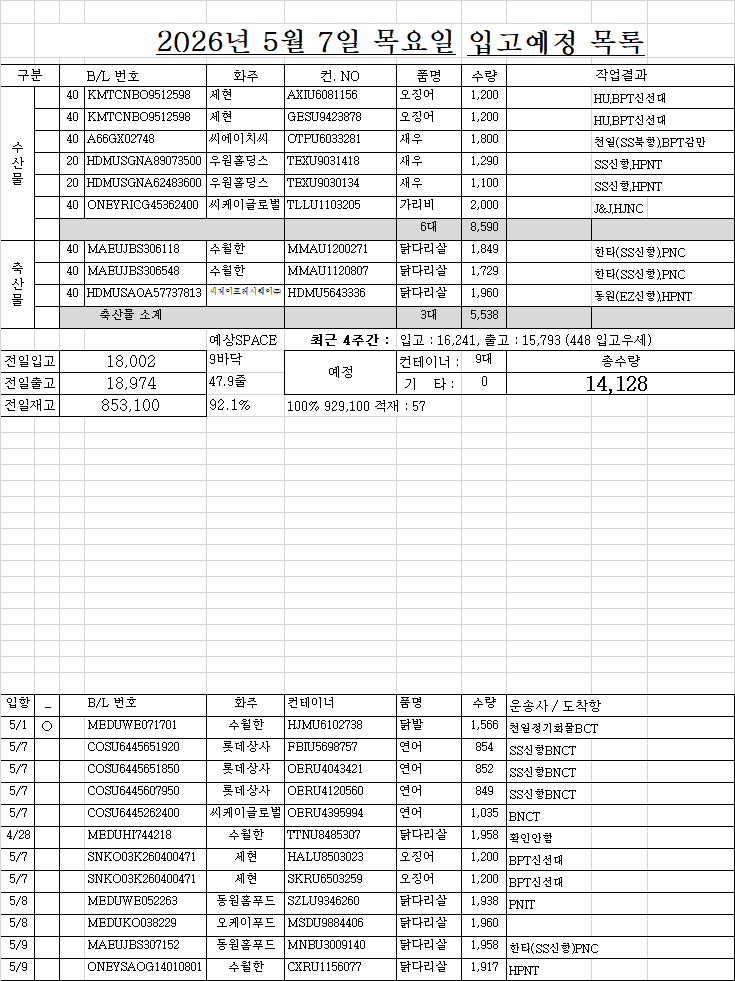
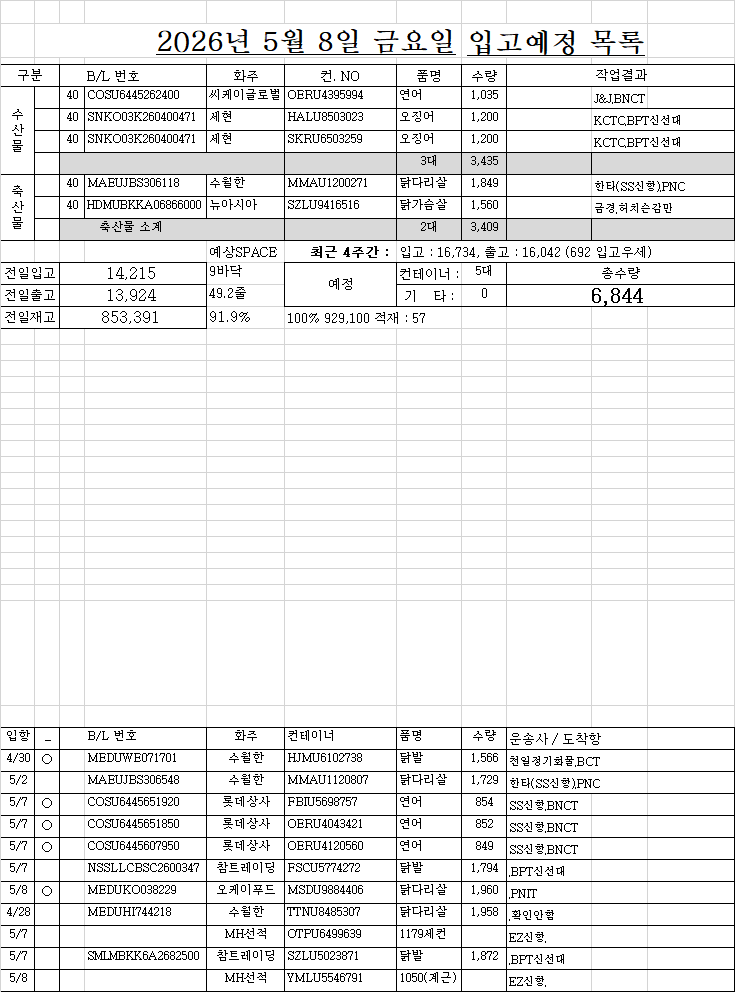
0507

Changed region(s): [[0.0, 0.0306, 1.0, 0.4281], [0.0, 0.7034, 1.0, 1.0], [0.0, 0.4893, 1.0, 0.581]]

diff --git a/list.html b/list.html
@@ -161,56 +161,70 @@
 <!-- ★★★★★★ 따로 빼 놔야한다. 복붙하면 첫칸 비어도 되는데, 여기서는 첫칸비우면 당겨진다. -->
 <!-- ★ 엑셀범위를 브라우저 textarea에 붙여넣으면 첫셀 비어도 제대로 되는데... HTML에 붙여놓은 자료는 처음셀이 비어있으면 당겨짐 -->
 <div class="d-none" id="원본text_리스트1부터w요약열까지">작성	면허	B/LNO.	화주	컨테이너NO.	품명	수량	반입NO.	입항일	구분	도착일	도착시간	구분	운도VBA	04/27 월 07:21	화찰BL	화찰 선명	화물관리번호	화찰수량	화찰중량	화찰입항	리스트시트기준열	
-1	○	KMTCNBO9512598	세현	AXIU6081156	오징어	1,200 		5/6	1				HU.BPT신선대	(주)에이치유로지스틱스, CY : 신선대감만터미널(주) 신선대CY, 컨진행 : 보세운송 신고 수리, 선사 : 천경해운(주), 포딩 : (주)보나미시스템	KMTCNBO9512598	SKY VICTORIA	26CKCO0460I-0049-0001	2,400 	49,060.00 	2026.05.04	05/06 수 16:33	
-1	○	KMTCNBO9512598	세현	GESU9423878	오징어	1,200 		5/6	1				HU.BPT신선대	(주)에이치유로지스틱스, CY : 신선대감만터미널(주) 신선대CY, 컨진행 : 보세운송 신고 수리, 선사 : 천경해운(주), 포딩 : (주)보나미시스템	KMTCNBO9512598	SKY VICTORIA	26CKCO0460I-0049-0001	2,400 	49,060.00 	2026.05.04	조회정보	
-1	○	A66GX02748	씨에이치씨	OTPU6033281	새우	1,800 		5/6	1				천일(SS북항).BPT감만	천일정기화물자동차(주), CY : 신선대감만터미널(주) 감만CY, 컨진행 : 반입완료, 선사 : 덕상티에스라인스(주), 포딩 : 주식회사 엔제이글로벌	A66GX02748	TS GUANGZHOU	26TSLUB057I-9044-0001	1,800 	21,000.00 	2026.05.05	적재	57
-1		HDMUSGNA89073500	우원홀딩스	TEXU9031418	새우	1,290 		5/6	1			20	SS신항.HPNT	면허?, CY : 에이치엠엠피에스에이신항만(주), 컨진행 : 반입완료, 선사 : 에이치엠엠(주)	HDMUSGNA89073500	HMM MIRACLE	26HDMUA227I-0171-	1,290 	6,049.90 	2026.04.30	4,617 	3줄
-1		HDMUSGNA62483600	우원홀딩스	TEXU9030134	새우	1,100 		5/6	1			20	SS신항.HPNT	면허?, CY : 에이치엠엠피에스에이신항만(주), 컨진행 : 반입완료, 선사 : 에이치엠엠(주)	HDMUSGNA62483600	HMM MIRACLE	26HDMUA227I-0170-	1,100 	8,360.00 	2026.04.30	6,156 	4줄
-1		ONEYRICG45362400	씨케이글로벌	TLLU1103205	가리비	2,000 		5/7	1				J&J.HJNC	면허?, CY : 한진부산컨테이너터미널(주), 컨진행 : 입항적재화물목록 운항정보 정정, 선사 : 오션네트워크익스프레스코리아(주)	ONEYRICG45362400	HYUNDAI PLUTO	26ONEY0607I-5006-	2,000 	22,000.00 	2026.05.06	7,695 	5줄
-1		MAEUJBS306118	수월한	MMAU1200271	닭다리살	1,849 		5/6	2				한타(SS신항).PNC	면허?, CY : 부산신항만(주)자유무역지역, 컨진행 : 반입완료, 선사 : 한국머스크(주)	MAEUJBS306118	GRASMERE MAERSK	26MAEU0265I-1194-	1,849 	23,214.81 	2026.05.01	9,234 	6줄
-1		MAEUJBS306548	수월한	MMAU1120807	닭다리살	1,729 		5/6	2				한타(SS신항).PNC	면허?, CY : 부산신항만(주)자유무역지역, 컨진행 : 반입완료, 선사 : 한국머스크(주)	MAEUJBS306548	GRASMERE MAERSK	26MAEU0265I-1196-	1,729 	21,708.58 	2026.05.01	구분	대수
-1	○	HDMUSAOA57737813	씨제이프레시웨이㈜	HDMU5643336	닭다리살	1,960 		5/6	2				동원(EZ신항).HPNT	동원로엑스㈜, CY : 에이치엠엠피에스에이신항만(주), 컨진행 : 보세운송 신고 수리, 선사 : 에이치엠엠(주)	HDMUSAOA57737813	HYUNDAI TOKYO	26HDMUA185I-0027-	1,960 	24,500.00 	2026.04.28	출고입고	4주간
-2	○	MEDUWE071701	수월한	HJMU6102738	닭발	1,566 		5/1	2				천일정기화물.BCT	천일정기화물자동차(주), CY : 부산컨테이너터미널(주), 컨진행 : 반입완료, 선사 : 엠에스씨코리아(주)	MEDUWE071701	MSC GREENWICH	26MSCU4168I-0732-	1,566 	24,278.76 	2026.05.01	1일 7/5	9바닥줄
-3		COSU6445651920	롯데상사	FBIU5698757	연어	854 		5/7	1				SS신항.BNCT	면허?, CY : (주)비엔씨티(CY), 컨진행 : 입항적재화물목록 제출, 선사 : 코스코쉬핑라인스 한국 주식회사	COSU6445651920	COSCO SHIPPING AZALEA	26COSU0045I-3119-	854 	24,750.00 	2026.05.07	16,109 	10.5
-3		COSU6445651850	롯데상사	OERU4043421	연어	852 		5/7	1				SS신항.BNCT								16,358 	10.6
-3		COSU6445607950	롯데상사	OERU4120560	연어	849 		5/7	1				SS신항.BNCT								내국제외	
-3		COSU6445262400	씨케이글로벌	OERU4395994	연어	1,035 		5/7	1				.BNCT	면허?, CY : (주)비엔씨티(CY), 컨진행 : 입항적재화물목록 제출, 선사 : 코스코쉬핑라인스 한국 주식회사	COSU6445262400	COSCO SHIPPING AZALEA	26COSU0045I-3028-	1,035 	21,278.00 	2026.05.07	구분	대수
-		MEDUHI744218	수월한	TTNU8485307	닭다리살	1,958 		4/28	2				.확인안함			SEASPAN BELIEF					수산	18 
-		SNKO03K260400471	세현	HALU8503023	오징어	1,200 		5/7	1				.BPT신선대								축산	34 
-		SNKO03K260400471	세현	SKRU6503259	오징어	1,200 		5/7	1				.BPT신선대								합계	52 
-		MEDUWE052263	동원홈푸드	SZLU9346260	닭다리살	1,938 		5/8	2				.PNIT			MSC ANTIGUA						
-		MEDUKO038229	오케이푸드	MSDU9884406	닭다리살	1,960 		5/8	2												화주	대수
-		MAEUJBS307152	동원홈푸드	MNBU3009140	닭다리살	1,958 		5/9	2				한타(SS신항).PNC			MAERSK CAP JERVIS					수월한	15
-		ONEYSAOG14010801	수월한	CXRU1156077	닭다리살	1,917 		5/9	2				.HPNT								㈜이마트	6
-		COSU6446081841	씨제이프레시웨이㈜	OTPU6169262	닭다리살	1,960 		5/10	2				.BNCT								세현	4
-		PROHCM26040066	우원홀딩스	EMCU5808093	새우	920 		5/10	1			20	(에버).BPT신선대								씨케이글로벌	4
-		A59GX13572	한국축지	SEKU9388204	갑오징어	800 		5/10	1			20	.BPT신선대								롯데상사	3
-		HASLS22260401549	동일냉장	FBIU5089302	닭고기	1,925 		5/11	2												열호통상	3
-		MEDUR3113012	수월한	FSCU5782597	닭다리살	1,941 		5/11	2				.PNIT			CAPE ARTEMISIO					우원홀딩스	3
-		MEDUR3128275	수월한	MEDU9346424	닭다리살	1,939 		5/11	2				.PNIT			CAPE ARTEMISIO					씨제이프레시웨이㈜	2
-		MEDUHI748649	열호통상	MEDU9044609	닭다리살	1,956 		5/11	2												동원홈푸드	2
-		MEDUHI744887	열호통상	SZLU9331527	닭다리살	1,958 		5/11	2												아스트로스	2
-		MEDUWE023579	열호통상	CXRU1462903	닭다리살	1,958 		5/11	2												동일냉장	1
-		MEDUR3104979	㈜이마트	FSCU5795064	SR조각정육(하프컷)			5/11	2				.PNIT			CAPE ARTEMISIO					씨에이치씨	1
-		MEDUR3101496	㈜이마트	FSCU5778220	닭다리살			5/11	2				.PNIT			MSC ORION					오케이푸드	1
-		MEDUKO028741	대성무역	MSCU7324266	닭장각	1,568 		5/12	2				.PNC			MSC DOMITILLE					대성무역	1
+1	○	COSU6445262400	씨케이글로벌	OERU4395994	연어	1,035 		5/7	1				J&J.BNCT	(주)부산특수물류, CY : (주)비엔씨티(CY), 컨진행 : 보세운송 신고 수리, 선사 : 코스코쉬핑라인스 한국 주식회사	COSU6445262400	COSCO SHIPPING AZALE	26COSU0045I-3028-	1,035 	21,278.00 	2026.05.07	05/07 목 16:31	
+1		SNKO03K260400471	세현	HALU8503023	오징어	1,200 		5/8	1				KCTC.BPT신선대	면허?, CY : 신선대감만터미널(주) 신선대CY, 컨진행 : 입항적재화물목록 운항정보 정정, 선사 : 장금상선(주), 포딩 : (주)스카이로드	SNKO03K260400471	HONGKONG VOYAGER	26SNKO1696I-0011-0001	2,400 	48,960.00 	2026.05.07	조회정보	
+1		SNKO03K260400471	세현	SKRU6503259	오징어	1,200 		5/8	1				KCTC.BPT신선대	면허?, CY : 신선대감만터미널(주) 신선대CY, 컨진행 : 입항적재화물목록 운항정보 정정, 선사 : 장금상선(주), 포딩 : (주)스카이로드	SNKO03K260400471	HONGKONG VOYAGER	26SNKO1696I-0011-0001	2,400 	48,960.00 	2026.05.07	적재	57
+1	○	MAEUJBS306118	수월한	MMAU1200271	닭다리살	1,849 		5/1	2				한타(SS신항).PNC	(주)한타특수운송, CY : 부산신항만(주)자유무역지역, 컨진행 : 보세운송 신고 수리, 선사 : 한국머스크(주)	MAEUJBS306118	GRASMERE MAERSK	26MAEU0265I-1194-	1,849 	23,214.81 	2026.05.01	4,617 	3줄
+1		HDMUBKKA06866000	뉴아시아	SZLU9416516	닭가슴살	1,560 		5/8	2				금경.허치슨감만								6,156 	4줄
+2	○	MEDUWE071701	수월한	HJMU6102738	닭발	1,566 		4/30	2				천일정기화물.BCT	천일정기화물자동차(주), CY : 부산컨테이너터미널(주), 컨진행 : 반입완료, 선사 : 엠에스씨코리아(주)	MEDUWE071701	MSC GREENWICH	26MSCU4168I-0732-	1,566 	24,278.76 	2026.04.30	7,695 	5줄
+2		MAEUJBS306548	수월한	MMAU1120807	닭다리살	1,729 		5/2	2				한타(SS신항).PNC	면허?, CY : 부산신항만(주)자유무역지역, 컨진행 : 반입완료, 선사 : 한국머스크(주)	MAEUJBS306548	GRASMERE MAERSK	26MAEU0265I-1196-	1,729 	21,708.58 	2026.05.01	9,234 	6줄
+2	○	COSU6445651920	롯데상사	FBIU5698757	연어	854 		5/7	1				SS신항.BNCT	(주)에스에스물류, CY : (주)비엔씨티(CY), 컨진행 : 반입완료, 선사 : 코스코쉬핑라인스 한국 주식회사	COSU6445651920	COSCO SHIPPING AZALE	26COSU0045I-3119-	854 	24,750.00 	2026.05.07	구분	대수
+2	○	COSU6445651850	롯데상사	OERU4043421	연어	852 		5/7	1				SS신항.BNCT	(주)에스에스물류, CY : (주)비엔씨티(CY), 컨진행 : 반입완료, 선사 : 코스코쉬핑라인스 한국 주식회사	COSU6445651850	COSCO SHIPPING AZALE	26COSU0045I-3120-	852 	24,736.80 	2026.05.07	출고입고	4주간
+2	○	COSU6445607950	롯데상사	OERU4120560	연어	849 		5/7	1				SS신항.BNCT	(주)에스에스물류, CY : (주)비엔씨티(CY), 컨진행 : 반입완료, 선사 : 코스코쉬핑라인스 한국 주식회사	COSU6445607950	COSCO SHIPPING AZALE	26COSU0045I-3066-	849 	24,736.80 	2026.05.07	1일 7/5	9바닥줄
+3		NSSLLCBSC2600347	참트레이딩	FSCU5774272	닭발	1,794 		5/7	2				.BPT신선대	면허?, CY : 신선대감만터미널(주) 신선대CY, 컨진행 : 항내 정박장소 이동신고, 선사 : 범주해운(주)	NSSLLCBSC2600347	PANCON BRIDGE	26PCLUBK06I-3044-	1,794 	22,604.40 	2026.05.06	15,793 	10.3
+3	○	MEDUKO038229	오케이푸드	MSDU9884406	닭다리살	1,960 		5/8	2				.PNIT		MEDUKO038229	MSC ANTIGUA	26MSCU3142I-0021-	1,960 	24,500.00 	2026.05.08	16,241 	10.6
+		MEDUHI744218	수월한	TTNU8485307	닭다리살	1,958 		4/28	2				.확인안함			SEASPAN BELIEF					내국제외	
+			MH선적	OTPU6499639	1179세컨			5/7	2				EZ신항.								구분	대수
+		SMLMBKK6A2682500	참트레이딩	SZLU5023871	닭발	1,872 		5/7	2				.BPT신선대								수산	15 
+			MH선적	YMLU5546791	1050(계근)			5/8	2				EZ신항.								축산	51 
+		MEDUWE052263	동원홈푸드	SZLU9346260	닭다리살	1,938 		5/8	2				.PNIT			MSC ANTIGUA					합계	66 
+		MEDUKO033071	현대코퍼레이션홀딩스㈜경기지사	MSDU9728337	닭다리살	1,980 		5/8	2				.PNIT			MSC ANTIGUA						
+		MEDUKO038260	현대코퍼레이션홀딩스㈜경기지사	MSCU7302591	닭다리살	1,980 		5/8	2				.PNIT			MSC ANTIGUA					화주	대수
+		SSZ1746872E	현대코퍼레이션홀딩스㈜경기지사	TEMU9444146	닭다리살	1,980 		5/8	2				.BNCT			CMA CGM HELIUM(M2XE)					수월한	16
+		SSZ1746872C	현대코퍼레이션홀딩스㈜경기지사	TRIU8613130	닭다리살	1,980 		5/8	2				.BNCT			CMA CGM HELIUM(M2XE)					㈜이마트	9
+		SNKO190260402360	대상 주식회사	FSCU5889522	닭다리살	1,925 		5/9	2				.BPT감만								현대코퍼레이션홀딩스㈜경기지사	4
+		MAEUSSZ803355	대상㈜유통씨아이씨	SUDU6001791	닭다리살	1,980 		5/9	2				.PNC			MAERSK CAP JERVIS					세현	4
+		MAEU265823018	대상㈜유통씨아이씨	SUDU6200751	닭발	1,567 		5/9	2				.PNC			MAERSK CAP JERVIS					롯데상사	3
+		MAEUJBS307152	동원홈푸드	MNBU3009140	닭다리살	1,958 		5/9	2				한타(SS신항).PNC			MAERSK CAP JERVIS					참트레이딩	3
+		ONEYSAOG14010801	수월한	CXRU1156077	닭다리살	1,917 		5/9	2				.HPNT								씨케이글로벌	3
+		PROHCM26040066	우원홀딩스	EMCU5808093	새우	920 		5/9	1			20	(에버).BPT감만								뉴아시아	3
+		HASLS22260401997	주식회사 뉴아시아	FSCU5907586	닭날개	1,950 		5/9	2				.BPT감만			SAWASDEE INCHEON					열호통상	3
+		HASLS22260400435	참트레이딩	SKRU9906371	닭날개	1,920 		5/9	2				.BPT감만								대상㈜유통씨아이씨	2
+		MEDUR3113012	수월한	FSCU5782597	닭다리살	1,941 		5/10	2				.PNIT			CAPE ARTEMISIO					동원홈푸드	2
+		MEDUR3128275	수월한	MEDU9346424	닭다리살	1,939 		5/10	2				.PNIT			CAPE ARTEMISIO					아스트로스	2
+		MEDUR3104979	㈜이마트	FSCU5795064	SR조각정육(하프컷)			5/10	2				.PNIT			CAPE ARTEMISIO					MH선적	2
+		MEDUR3101496	㈜이마트	FSCU5778220	닭다리살			5/10	2				.PNIT			MSC ORION					주식회사 뉴아시아	1
+		A59GX13572	한국축지	SEKU9388204	갑오징어	800 		5/10	1			20	.BPT신선대								대상 주식회사	1
+		HDMUBKKA33024100	뉴아시아	HMMU5521341	닭다리살	1,950 		5/11	2				.허치슨감만								한국축지	1
+		COSU6446081841	씨제이프레시웨이㈜	OTPU6169262	닭다리살	1,960 		5/11	2				.BNCT								씨제이프레시웨이㈜	1
 		NSSLBKBSC2600211	동일	TEMU9539107	절단주꾸미	2,500 		5/12	1			40	.허치슨감만								동일	1
-		MEDUHI738384	아스트로스	MEDU9087724	닭다리살	1,875 		5/14	2				.PNC			MSC PINA					한국축지	1
-		MEDUR3138142	수월한	MEDU9095680	닭다리살	1,942 		5/15	2				.BCT			ANTHEA Y					뉴아시아	1
-		HDMUSAOA01220400	수월한	HMMU5490657	닭다리살	1,958 		5/15	2				.HPNT								아이씨코퍼	1
-		MEDUR3122435	㈜이마트	OTPU6560050	닭다리살			5/15	2				.BCT			ANTHEA Y						
+		041GX01581	씨에이치씨	WHLU7315891	새우	896 		5/13	1			20	.BPT감만								씨에이치씨	1
+		MEDUHI738384	아스트로스	MEDU9087724	닭다리살	1,875 		5/13	2				.PNC			MSC PINA					오케이푸드	1
+		MEDUKO028741	대성무역	MSCU7324266	닭장각	1,568 		5/14	2				.PNC			MSC DOMITILLE					대성무역	1
+		HASLS22260401549	수월한	FBIU5089302	닭고기	1,925 		5/14	2				.BPT신선대								우원홀딩스	1
+		MEDUHI649748	수월한	SZLU9261369	닭다리살	1,902 		5/14	2				.PNC								아이씨코퍼	1
+		MEDUHI748649	열호통상	MEDU9044609	닭다리살	1,956 		5/14	2				.PNC									
+		MEDUHI744887	열호통상	SZLU9331527	닭다리살	1,958 		5/14	2				.PNC									
+		MEDUWE023579	열호통상	CXRU1462903	닭다리살	1,958 		5/14	2				.PNC									
+		MEDUR3138142	수월한	MEDU9095680	닭다리살	1,942 		5/16	2				.BCT			ANTHEA Y						
 		MAEUJBS308071	수월한	MNBU4229278	닭다리살	1,903 		5/16	2				한타(SS신항).PNC			REN JIAN 15						
+		MEDUR3122435	㈜이마트	OTPU6560050	닭다리살			5/16	2				.BCT			ANTHEA Y						
 		MAEUJBS308067	㈜이마트	MNBU3273682	닭다리살			5/16	2				.PNC			확인안함						
 		MAEUJBS307921	㈜이마트	MMAU1192772	닭다리살			5/16	2				.PNC			확인안함						
+		MEDUHI756030	㈜이마트	CXRU1400753	닭다리살			5/16	2				.BCT			MSC JAVELIN IX						
+		HDMUSAOA01220400	수월한	HMMU5490657	닭다리살	1,958 		5/17	2				.HPNT									
 		MEDUR3122633	㈜이마트	MEDU9665674	닭다리살			5/17	2				.확인안함			SPIRITO SANTO EXPRESS						
 		HDMUSAOA94240300	뉴아시아	HMMU5416979	닭다리살	1,828 		5/19	2				.HJNC									
+		YMJAC949016594	세현	YMLU5471096	오징어	1,150 		5/21	1				.DGT									
 		MAEUJBS309033	수월한	MNBU3291048	닭다리살	1,953 		5/23	2				.PNC									
 		MAEUJBS309194	수월한	MNBU3736792	닭다리살	1,788 		5/23	2				.PNC									
 		COSU6453457070	아스트로스	SZLU9596640	닭다리살	1,960 		5/23	2				.BNCT			COSCO FAITH						
 		ONEYSCLG09028600	아이씨코퍼	SZLU9532394	연어	899 		5/26	1				.PNIT									
 		ONEYSAOG14500500	수월한	TTNU8744500	닭다리살	1,958 		6/1	2				.확인안함									
+		ONEYLIMG06641400	세현	TCLU1234911	오징어	1,150 		6/4	1				.									
+		MEDUR3144496	㈜이마트	MSDU9600860	닭다리살			미정	2				.확인안함			MSC SHUBA B						
+		MEDUR3159122	㈜이마트	CXRU1419553	닭다리살			미정	2				.확인안함			MSC SHUBA B						
 		MEDUFX960938	수월한	MEDU9109741	닭다리살	1,917 	???		2				천일정기화물PNIT			MSC BREMERHAVEN V						
-		MEDUHI649748	수월한	SZLU9261369	닭다리살	1,902 			2													
 		SITRRIPU040355	씨케이글로벌	CAIU5186862	새우	1,550 	???		1													
 		OOCL2317300180	씨케이글로벌	FSCU5984155		1,382 	???		1							CMA CGM PRIDE						
 </div>
